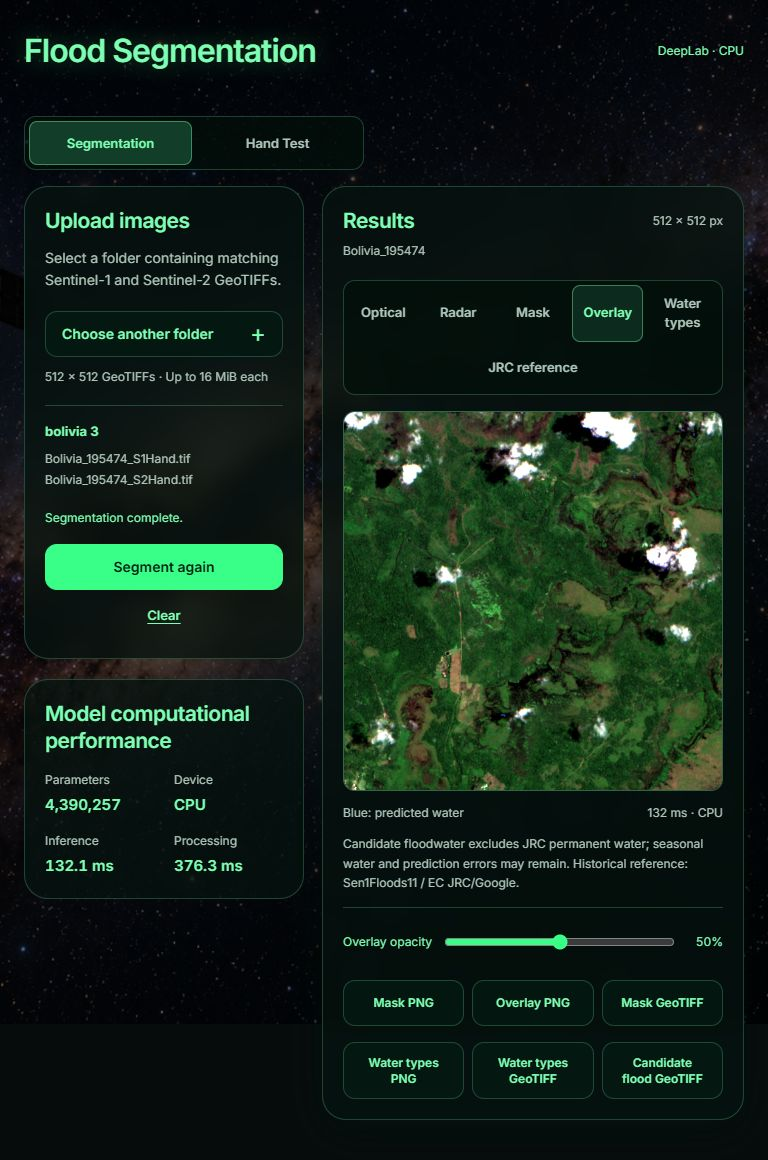
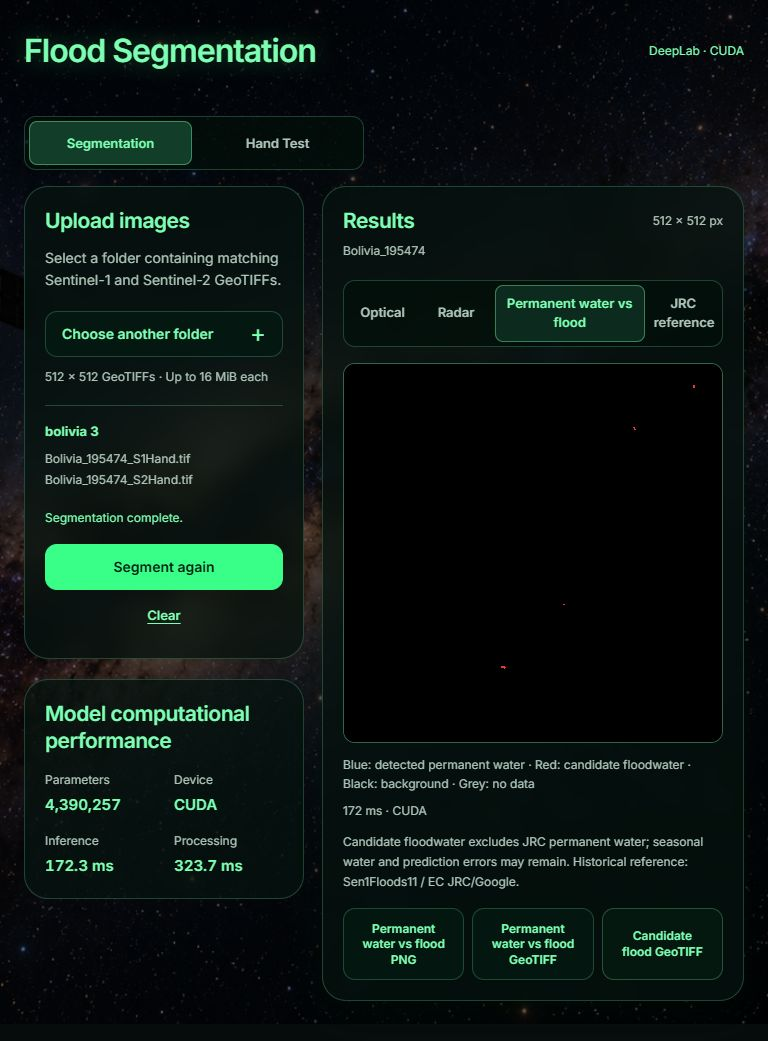
Replace overlay views with solid permanent-water and flood mask

diff --git a/frontend/src/App.jsx b/frontend/src/App.jsx
@@ -3,7 +3,7 @@ import axios from 'axios';
 import { errorMessage, pairFromFolder, tripletFromFolder } from './files.js';
 
 const api = axios.create({ baseURL: '/api', timeout: 120000 });
-const labels = { rgb: 'Optical', radar: 'Radar', mask: 'Mask', overlay: 'Overlay', water_types: 'Water types', jrc: 'JRC reference' };
+const labels = { rgb: 'Optical', radar: 'Radar', permanent_flood: 'Permanent water vs flood', jrc: 'JRC reference' };
 const formatPercent = value => `${(value * 100).toFixed(2)}%`;
 const formatMetric = value => value == null ? 'N/A' : formatPercent(value);
 const modes = { segmentation: 'Segmentation', 'hand-test': 'Hand Test' };
@@ -29,15 +29,6 @@ function geotiffDownload(base64, name) {
   const url = URL.createObjectURL(new Blob([bytes], { type: 'image/tiff' }));
   saveUrl(url, name);
   setTimeout(() => URL.revokeObjectURL(url), 1000);
-}
-
-function loadImage(url) {
-  return new Promise((resolve, reject) => {
-    const image = new Image();
-    image.onload = () => resolve(image);
-    image.onerror = () => reject(new Error('Cannot prepare the overlay download. Please retry.'));
-    image.src = url;
-  });
 }
 
 function Spinner() { return <span className="spinner" aria-hidden="true" />; }
@@ -87,8 +78,6 @@ function Workspace({ mode, info, serviceError, refreshService, onBusyChange }) {
   const [phase, setPhase] = useState('empty');
   const [error, setError] = useState('');
   const [view, setView] = useState(defaultView);
-  const [opacity, setOpacity] = useState(50);
-  const [exporting, setExporting] = useState(false);
   const fileInput = useRef(null);
   const controller = useRef(null);
   const generation = useRef(0);
@@ -111,7 +100,7 @@ function Workspace({ mode, info, serviceError, refreshService, onBusyChange }) {
     if (!files?.length) return;
     controller.current?.abort();
     const version = ++generation.current;
-    setPair(null); setPreview(null); setResult(null); setError(''); setView(defaultView); setOpacity(50);
+    setPair(null); setPreview(null); setResult(null); setError(''); setView(defaultView);
     try {
       const selected = handTest ? tripletFromFolder(files) : pairFromFolder(files);
       setPair(selected); setPhase('validating');
@@ -134,7 +123,7 @@ function Workspace({ mode, info, serviceError, refreshService, onBusyChange }) {
     try {
       const response = await api.post(`${endpoint}/predict`, formData(pair), { signal: controller.current.signal });
       if (version !== generation.current) return;
-      setResult(response.data); setView(response.data.water_separation?.available ? 'water_types' : handTest ? 'compare' : 'overlay'); setPhase('success');
+      setResult(response.data); setView(response.data.water_separation?.available ? 'permanent_flood' : defaultView); setPhase('success');
       requestAnimationFrame(() => resultHeading.current?.focus({ preventScroll: true }));
     } catch (err) {
       if (version !== generation.current || axios.isCancel(err)) return;
@@ -144,25 +133,11 @@ function Workspace({ mode, info, serviceError, refreshService, onBusyChange }) {
 
   function clearPair() {
     controller.current?.abort(); ++generation.current;
-    setPair(null); setPreview(null); setResult(null); setError(''); setPhase('empty'); setView(defaultView); setOpacity(50);
-  }
-
-  async function downloadOverlay(waterTypes = false) {
-    setExporting(true);
-    try {
-      const [base, layer] = await Promise.all([loadImage(result.images.rgb), loadImage(waterTypes ? result.water_separation.overlay_layer : result.images.overlay_layer)]);
-      const canvas = document.createElement('canvas');
-      canvas.width = result.width; canvas.height = result.height;
-      const context = canvas.getContext('2d');
-      context.drawImage(base, 0, 0); context.globalAlpha = opacity / 100; context.drawImage(layer, 0, 0);
-      saveUrl(canvas.toDataURL('image/png'), `${result.tile_id}_${waterTypes ? 'water_types' : 'overlay'}_${opacity}.png`);
-    } catch (err) { setError(err.message); }
-    finally { setExporting(false); }
+    setPair(null); setPreview(null); setResult(null); setError(''); setPhase('empty'); setView(defaultView);
   }
 
   const source = result?.images || preview;
   const separation = result?.water_separation || preview?.water_separation;
-  const overlayView = view === 'overlay' || view === 'water_types';
   const status = { empty: 'No folder selected.', validating: 'Validating images…', ready: 'Ready to segment.', processing: 'Segmenting…', success: 'Segmentation complete.', error: 'Check the selected files.' }[phase];
 
   return <>
@@ -197,25 +172,22 @@ function Workspace({ mode, info, serviceError, refreshService, onBusyChange }) {
           <section className="hud-panel results-panel" aria-labelledby={`${mode}-viewer-title`} aria-busy={busy}>
             <div className="viewer-heading"><h2 id={`${mode}-viewer-title`} ref={resultHeading} tabIndex={-1}>Results</h2>{preview && <span className="image-size">{preview.width} × {preview.height} px</span>}</div>
             {pair && <p className="tile-name">{pair.tileId}</p>}
-            <div className="view-tabs hand-view-tabs" role="group" aria-label="Image view">{Object.entries(viewLabels).map(([key, label]) => <button key={key} className={view === key ? 'view-tab active' : 'view-tab'} aria-pressed={view === key} disabled={!source || (!result && ['mask', 'overlay', 'water_types'].includes(key)) || (['water_types', 'jrc'].includes(key) && !separation?.available)} onClick={() => setView(key)}>{label}</button>)}</div>
+            <div className="view-tabs hand-view-tabs" role="group" aria-label="Image view">{Object.entries(viewLabels).map(([key, label]) => <button key={key} className={`view-tab ${view === key ? 'active' : ''} ${key === 'permanent_flood' ? 'permanent-flood-tab' : ''}`} aria-pressed={view === key} disabled={!source || (key === 'permanent_flood' && !result) || (['permanent_flood', 'jrc'].includes(key) && !separation?.available)} onClick={() => setView(key)}>{label}</button>)}</div>
             <div className="viewer-body">
             {source && view === 'compare' ? <div className="comparison-grid">
               <figure><figcaption>Ground truth</figcaption><div className="image-stage"><img className="comparison-image" src={source.ground_truth} alt={`Ground truth for ${pair.tileId}`} width="512" height="512" /></div></figure>
               <figure><figcaption>DeepLab prediction</figcaption><div className={`image-stage ${!result ? 'empty-stage' : ''}`}>{result ? <img className="comparison-image" src={source.comparison_prediction} alt={`DeepLab prediction for ${pair.tileId}`} width="512" height="512" /> : <p className="empty-copy">Click Segment image to show the prediction.</p>}</div></figure>
             </div> : <div className={`image-stage ${!source ? 'empty-stage' : ''}`}>
               {source ? <>
-                <img className={`main-image ${view === 'jrc' ? 'reference-image' : ''}`} src={overlayView ? source.rgb : view === 'jrc' ? separation.reference_png : source[view]} alt={`${labels[view]} view of ${pair.tileId}`} width="512" height="512" />
-                {overlayView && <img className="overlay-image" src={view === 'water_types' ? separation.overlay_layer : source.overlay_layer} style={{ opacity: opacity / 100 }} alt="" aria-hidden="true" width="512" height="512" />}
+                <img className={`main-image ${['jrc', 'permanent_flood'].includes(view) ? 'reference-image' : ''}`} src={view === 'permanent_flood' ? separation.mask_png : view === 'jrc' ? separation.reference_png : source[view]} alt={`${labels[view]} view of ${pair.tileId}`} width="512" height="512" />
               </> : <p className="empty-copy">{handTest ? 'Upload a satellite triplet to preview.' : 'Upload a satellite pair to preview.'}</p>}
             </div>}
             {busy && <div className="processing-cover"><Spinner /><span>{phase === 'validating' ? 'Preparing preview…' : 'Processing image…'}</span></div>}
             </div>
-            {source && <div className="viewer-caption"><span>{view === 'compare' ? 'White: water · Black: background · Grey: excluded' : view === 'rgb' ? 'Sentinel-2 · RGB' : view === 'radar' ? 'Sentinel-1 · VV radar' : view === 'mask' ? 'White: water · Black: background · Grey: no data' : view === 'jrc' ? 'Blue: JRC permanent-water reference · Black: outside reference · Grey: no data' : view === 'water_types' ? 'Blue: detected permanent water · Orange: candidate floodwater · Grey: no data' : 'Blue: predicted water'}</span>{result && <span>{result.inference_ms.toFixed(0)} ms · {result.device.toUpperCase()}</span>}</div>}
+            {source && <div className="viewer-caption"><span>{view === 'compare' ? 'White: water · Black: background · Grey: excluded' : view === 'rgb' ? 'Sentinel-2 · RGB' : view === 'radar' ? 'Sentinel-1 · VV radar' : view === 'jrc' ? 'Blue: JRC permanent-water reference · Black: outside reference · Grey: no data' : 'Blue: detected permanent water · Red: candidate floodwater · Black: background · Grey: no data'}</span>{result && <span>{result.inference_ms.toFixed(0)} ms · {result.device.toUpperCase()}</span>}</div>}
             {separation && <p className="separation-note" role="status">{separation.available ? 'Candidate floodwater excludes JRC permanent water; seasonal water and prediction errors may remain. Historical reference: Sen1Floods11 / EC JRC/Google.' : `Permanent-water separation unavailable. ${separation.reason}`}</p>}
             {result?.evaluation && <section className="evaluation-panel" aria-label="Full-image comparison against uploaded ground truth"><h3>Full-image comparison against uploaded ground truth</h3><dl className="evaluation-metrics">{[['Water IoU', 'iou'], ['Dice', 'dice'], ['Pixel accuracy', 'pixel_accuracy']].map(([label, key]) => <div key={key}><dt>{label}</dt><dd>{formatMetric(result.evaluation[key])}</dd></div>)}</dl><p>{result.evaluation.evaluated_pixels.toLocaleString('en-US')} evaluated pixels · {result.evaluation.excluded_pixels.toLocaleString('en-US')} excluded</p></section>}
-            {result && overlayView && <div className="opacity-control"><label htmlFor={`${mode}-opacity`}>Overlay opacity</label><input id={`${mode}-opacity`} type="range" min="0" max="100" value={opacity} onChange={e => setOpacity(Number(e.target.value))} /><output htmlFor={`${mode}-opacity`}>{opacity}%</output></div>}
-            {result && <div className="download-actions" aria-label="Download results"><button className="button secondary" onClick={() => saveUrl(result.images.mask, `${result.tile_id}_mask.png`)}>Mask PNG</button><button className="button secondary" disabled={exporting} onClick={() => downloadOverlay()}>{exporting ? 'Preparing…' : 'Overlay PNG'}</button><button className="button secondary" onClick={() => geotiffDownload(result.mask_geotiff_base64, `${result.tile_id}_mask.tif`)}>Mask GeoTIFF</button></div>}
-            {result && separation?.available && <div className="download-actions" aria-label="Download water separation"><button className="button secondary" disabled={exporting} onClick={() => downloadOverlay(true)}>Water types PNG</button><button className="button secondary" onClick={() => geotiffDownload(separation.classes_geotiff_base64, `${result.tile_id}_water_types.tif`)}>Water types GeoTIFF</button><button className="button secondary" onClick={() => geotiffDownload(separation.candidate_flood_geotiff_base64, `${result.tile_id}_candidate_flood.tif`)}>Candidate flood GeoTIFF</button></div>}
+            {result && separation?.available && <div className="download-actions" aria-label="Download water separation"><button className="button secondary" onClick={() => saveUrl(separation.mask_png, `${result.tile_id}_permanent_water_vs_flood.png`)}>Permanent water vs flood PNG</button><button className="button secondary" onClick={() => geotiffDownload(separation.classes_geotiff_base64, `${result.tile_id}_permanent_water_vs_flood.tif`)}>Permanent water vs flood GeoTIFF</button><button className="button secondary" onClick={() => geotiffDownload(separation.candidate_flood_geotiff_base64, `${result.tile_id}_candidate_flood.tif`)}>Candidate flood GeoTIFF</button></div>}
           </section>
       </div>
   </>;

diff --git a/frontend/src/styles.css b/frontend/src/styles.css
@@ -67,6 +67,7 @@ h3 { color: var(--accent); font-size: 14px; font-weight: 600; line-height: 1.5; 
 .evaluation-metrics dd { color: var(--accent); font-size: 21px; font-weight: 600; font-variant-numeric: tabular-nums; margin: 4px 0 0; }
 .hand-view-tabs { flex-wrap: wrap; }
 .hand-view-tabs .view-tab { min-width: 62px; }
+.hand-view-tabs .permanent-flood-tab { flex: 2; min-width: 150px; }
 .viewer-heading { display: flex; align-items: center; justify-content: space-between; gap: 14px; }
 .image-size { font-size: 12px; color: var(--muted); white-space: nowrap; }
 .tile-name { color: var(--muted); font-size: 12px; margin-top: 7px; overflow-wrap: anywhere; }

diff --git a/backend/water_separation.py b/backend/water_separation.py
@@ -12,7 +12,7 @@ from rasterio.io import MemoryFile
 from .visualization import png_url
 
 PERMANENT_COLOR = ImageColor.getrgb('#435ee5')
-FLOOD_COLOR = ImageColor.getrgb('#f59e42')
+FLOOD_COLOR = ImageColor.getrgb('#e53935')
 SOURCE = 'Sen1Floods11 v1.1 JRCWaterHand; EC JRC/Google'
 LIMITATION = 'Candidate floodwater excludes JRC permanent water; seasonal water and prediction errors may remain.'
 
@@ -87,13 +87,17 @@ def separation_result(pair, prediction, root):
     if reference is None:
         return info
     classes = classify_water(prediction, reference, pair.valid)
+    color_mask = np.zeros((*classes.shape, 3), dtype=np.uint8)
+    color_mask[classes == 1] = PERMANENT_COLOR
+    color_mask[classes == 2] = FLOOD_COLOR
+    color_mask[classes == 255] = (120, 120, 120)
     layer = np.zeros((*classes.shape, 4), dtype=np.uint8)
     layer[classes == 1] = (*PERMANENT_COLOR, 255)
     layer[classes == 2] = (*FLOOD_COLOR, 255)
     layer[classes == 255] = (120, 120, 120, 255)
     candidate = np.where(classes == 2, 1, 0).astype(np.uint8)
     candidate[classes == 255] = 255
-    return {**info, 'overlay_layer': png_url(layer),
+    return {**info, 'mask_png': png_url(color_mask), 'overlay_layer': png_url(layer),
             'counts': {'detected_permanent_water': int((classes == 1).sum()),
                        'candidate_floodwater': int((classes == 2).sum()),
                        'excluded': int((classes == 255).sum())},

diff --git a/tests/test_water_separation.py b/tests/test_water_separation.py
@@ -1,12 +1,14 @@
 import base64
 import hashlib
 import json
+from io import BytesIO
 from types import SimpleNamespace
 from unittest.mock import patch
 
 import numpy as np
 import pytest
 import rasterio
+from PIL import Image
 from rasterio.io import MemoryFile
 from rasterio.transform import from_origin
 
@@ -38,6 +40,15 @@ def test_known_classes_and_unknown_pixels():
     reference = np.array([[1, 0, 1, 0, 1, 255, 0]])
     valid = np.array([[True, True, True, True, True, True, False]])
     np.testing.assert_array_equal(classify_water(prediction, reference, valid), [[1, 2, 0, 0, 255, 255, 255]])
+
+
+def test_solid_blue_red_mask_matches_classified_pixels(tmp_path):
+    pair, _ = synthetic(tmp_path, np.array([[1, 0, 1, 0]], dtype=np.uint8))
+    pair.valid[0, 3] = False
+    result = separation_result(pair, np.array([[1, 1, 0, 1]], dtype=np.uint8), tmp_path)
+    with Image.open(BytesIO(base64.b64decode(result['mask_png'].split(',', 1)[1]))) as png:
+        assert png.mode == 'RGB' and png.size == (4, 1)
+        np.testing.assert_array_equal(np.asarray(png), [[[67, 94, 229], [229, 57, 53], [0, 0, 0], [120, 120, 120]]])
 
 
 @pytest.mark.parametrize('permanent,expected', [(0, 2), (1, 1)])

diff --git a/README.md b/README.md
@@ -5,8 +5,8 @@ A local web workspace for predicting water in paired Sentinel-1 and Sentinel-2 s
 The **Hand Test** tab also accepts a matching ground-truth mask and compares it with a fresh prediction, side by side.
 
 Both workspaces automatically separate predicted water using the bundled JRC
-permanent-water reference. **Water types** shows blue detected permanent water
-and orange candidate floodwater. Start with [demo pairs/demo 01](demo%20pairs/demo%2001)
+permanent-water reference. **Permanent water vs flood** shows a solid mask with
+blue detected permanent water and red candidate floodwater. Start with [demo pairs/demo 01](demo%20pairs/demo%2001)
 or any of the [10 paired demonstrations](demo%20pairs/README.md).
 
 ![Space-themed flood segmentation workspace](docs/screenshots/desktop-empty.jpg)
@@ -38,7 +38,7 @@ Only the frontend port is exposed, bound to `127.0.0.1:8080`. Nginx forwards API
 1. Choose **Choose a folder** and select `sample/bolivia 1`, or any other numbered tile folder.
 2. Wait for the optical preview and the message **Ready to segment.**
 3. Choose **Segment image**.
-4. Water types opens when a matching JRC reference is available. Switch between Optical, Radar, Mask, Overlay, Water types and JRC reference. Adjust overlay opacity and download PNGs or georeferenced TIFFs.
+4. Permanent water vs flood opens when a matching JRC reference is available. Switch between Optical, Radar, Permanent water vs flood and JRC reference. Download the colour mask PNG or georeferenced TIFFs.
 
 Each folder contains exactly one matching pair, for example:
 
@@ -59,7 +59,7 @@ All **15 folders contain 30 original TIFFs**. `sample/manifest.json` maps the nu
 1. Open **Hand Test** and choose one directory such as `hand test/hand test 1`.
 2. The directory must contain one matching `_S1Hand.tif`, `_S2Hand.tif` and `_LabelHand.tif`.
 3. The ground truth appears beside an empty prediction placeholder. Click **Segment image** to run D4.
-4. Water types opens after prediction when JRC is available. Select **Compare** for both water masks and read **Water IoU**, **Dice** and **Pixel accuracy** below them. Imagery, water separation, opacity and downloads remain available.
+4. Permanent water vs flood opens after prediction when JRC is available. Select **Compare** for both original water masks and read **Water IoU**, **Dice** and **Pixel accuracy** below them. Optical, Radar, JRC reference and downloads remain available.
 
 The repository includes exactly **10 selected triplets (30 original TIFFs, approximately 37.4 MiB)** under `hand test/`. Folder mapping, selection reasons, source split and checksums are in its manifest and README. These are visually selected river/floodplain examples, not a representative benchmark of all 90 Hand Test tiles. No Hand Test gallery or automatic sample loading is provided.
 
@@ -114,13 +114,15 @@ Downloads in both workspaces:
 
 | Download | Meaning |
 | --- | --- |
-| Water types PNG | Optical image plus classified overlay at the selected opacity |
-| Water types GeoTIFF | `0=background`, `1=detected permanent water`, `2=candidate floodwater`, `255=no data` |
+| Permanent water vs flood PNG | Solid mask: blue permanent water, red candidate floodwater, black background, grey no-data |
+| Permanent water vs flood GeoTIFF | `0=background`, `1=detected permanent water`, `2=candidate floodwater`, `255=no data` |
 | Candidate flood GeoTIFF | `0=not candidate floodwater`, `1=candidate floodwater`, `255=no data` |
 
 GeoTIFFs retain the source grid and record the method, source, reference checksum
-and class meanings. The original Mask PNG, Overlay PNG and Mask GeoTIFF remain
-available separately. Each prediction uses the same fixed water threshold > 0.5.
+and class meanings. Mask, Overlay and Water types have been replaced by the single
+Permanent water vs flood view; opacity controls are no longer needed. Original
+water predictions remain available through the API and Hand Test Compare. Each
+prediction uses the same fixed water threshold > 0.5.
 
 Historical JRC masks are not verified observations immediately before each event.
 Exact derivation dates and threshold of these supplied binary references have not

diff --git a/docs/DESIGN_NOTES.md b/docs/DESIGN_NOTES.md
@@ -4,15 +4,19 @@
 
 The extension retains the satellite/control-panel direction, audience and ENERGY
 2 / RHYTHM 1 / MOTION 1 settings below. The results imagery remains the focal point.
-Water types and JRC reference are functional views requested for both workspaces.
-Blue retains its existing water meaning; orange identifies candidate floodwater.
+Permanent water vs flood and JRC reference are functional views requested for both workspaces.
+Blue retains its existing water meaning; red identifies candidate floodwater.
 These are data categories with explicit text legends, rather than additional
 action accents. Grey marks unavailable pixels. The JRC view distinguishes the
 reference footprint from model-detected permanent water. Wrapping view controls
 and download rows preserve 44px touch targets on narrow screens. Existing optical
 imagery, background, typography, glass, spacing and green controls are retained.
 A brief reference limitation accompanies the result rather than technical input
-controls or an additional upload step. Both PNG overlays export the chosen opacity.
+controls or an additional upload step. The latest requested result is a solid
+blue/red mask on black background, with grey no-data, rather than an optical
+overlay. Mask, Overlay and Water types tabs and opacity controls were removed;
+Compare, Optical, Radar and JRC reference are retained. The PNG download is the
+same mask shown in the viewer. The longer view label has room to wrap on mobile.
 
 Reading this as: a compact flood-segmentation workspace for portfolio reviewers, with the owner's space-control-panel direction, dark transparent surfaces and neon green hierarchy, dial ENERGY 2 / RHYTHM 1 / MOTION 1.
 

diff --git a/docs/VERIFICATION.md b/docs/VERIFICATION.md
@@ -1,5 +1,22 @@
 # Verification record
 
+## Solid permanent-water/flood mask, 30 October 2026
+
+Replaced Mask, Overlay and Water types with Permanent water vs flood in both
+workspaces. Its exact RGB palette is blue `(67,94,229)` for detected permanent
+water, red `(229,57,53)` for candidate floodwater, black for background and grey
+`(120,120,120)` for no-data. The PNG export matches the displayed solid mask;
+classified GeoTIFF meanings and original water metrics are unchanged.
+
+53 backend tests, 12 frontend tests and the production build passed. A synthetic
+pixel test verifies all four PNG colours against the corresponding classes.
+The updated browser script passed both workspaces, all retained views, Compare,
+three downloads per workspace, 320/390/768/1280px layouts, keyboard controls,
+JRC-unavailable fallback, upload/reset errors and service recovery. No uncaught
+page errors occurred. Desktop/mobile masks were visually inspected. Verification
+used the local app on port 5173; the Docker record below describes the preceding
+revision and was not repeated for this presentation change.
+
 ## JRC water separation, 29 October 2026
 
 See [WATER_SEPARATION_VERIFICATION.md](WATER_SEPARATION_VERIFICATION.md) for the

diff --git a/hand test/README.md b/hand test/README.md
@@ -21,8 +21,9 @@ In the app, select **Hand Test**, then choose one numbered folder, not this pare
 
 Labels: `0=background`, `1=water`, `-1/255=ignored`. Scores use only pixels valid in both imagery and labels. Zero remains background even when label nodata metadata says zero. The app requires the original aligned 512 × 512 rasters; it never resizes or reprojects labels. Grey areas in Compare are excluded from scoring. Water includes permanent water; this is not a change-detection product that establishes newly flooded land.
 
-After prediction, **Water types** opens using the automatically matched historical
-JRC map. Blue marks detected permanent water, orange marks candidate floodwater.
+After prediction, **Permanent water vs flood** opens using the automatically matched historical
+JRC map. Blue marks detected permanent water, red marks candidate floodwater,
+black marks background and grey marks no-data. This view is a solid class mask.
 Choose **Compare** to view the original water comparison. Scores still measure
 all-water segmentation. **JRC reference** shows the historical reference itself;
 three selected tiles have valid all-zero references. For two-file Segmentation

diff --git a/docs/ANTISLOP_GATE.md b/docs/ANTISLOP_GATE.md
@@ -1,5 +1,18 @@
 # Antislop Delivery Gate: PASS
 
+## Solid mask presentation, 30 October 2026: PASS
+
+- Hard Gate PASS: 53 backend tests, 12 frontend tests and production build;
+  both browser workflows, three real downloads each, no page errors and no
+  overflow at 320/390/768/1280px. Exact mask colours are verified by pixel tests.
+- Purpose-Gate PASS: requested blue/red data colours have explicit legends;
+  obsolete tabs/opacity controls are removed and existing app direction retained.
+- Liveliness PASS: same ENERGY 2 / RHYTHM 1 / MOTION 1, satellite workspace
+  framing, green action hierarchy and geographic result focal point.
+- Craftsmanship PASS: edited source directly; Compare, imagery, JRC, downloads,
+  unavailable-reference fallback and keyboard controls worked in the live app.
+  Desktop/mobile masks were visually inspected; no fabricated result claims.
+
 ## JRC separation extension, 29 October 2026: PASS
 
 - Hard Gate PASS: 52 backend tests, 12 frontend tests and production build passed;

diff --git a/demo pairs/README.md b/demo pairs/README.md
@@ -22,8 +22,9 @@ For **Hand Test**, select the corresponding folder under `hand test/`, containin
 the additional original hand-labelled water reference. Those scores still measure
 water segmentation, not independently verified flood-only accuracy.
 
-Water types shows **blue detected permanent water** and **orange candidate
-floodwater**. The JRC reference view shows the historical mask independently of
+Permanent water vs flood shows a solid mask with **blue detected permanent water**
+and **red candidate floodwater**, black background and grey no-data. The JRC
+reference view shows the historical mask independently of
 the prediction. Demos 03, 07 and 10 have valid all-zero JRC references, so their
 predicted water is entirely candidate floodwater where imagery is valid. An empty
 reference does not prove that permanent water is absent in reality.
